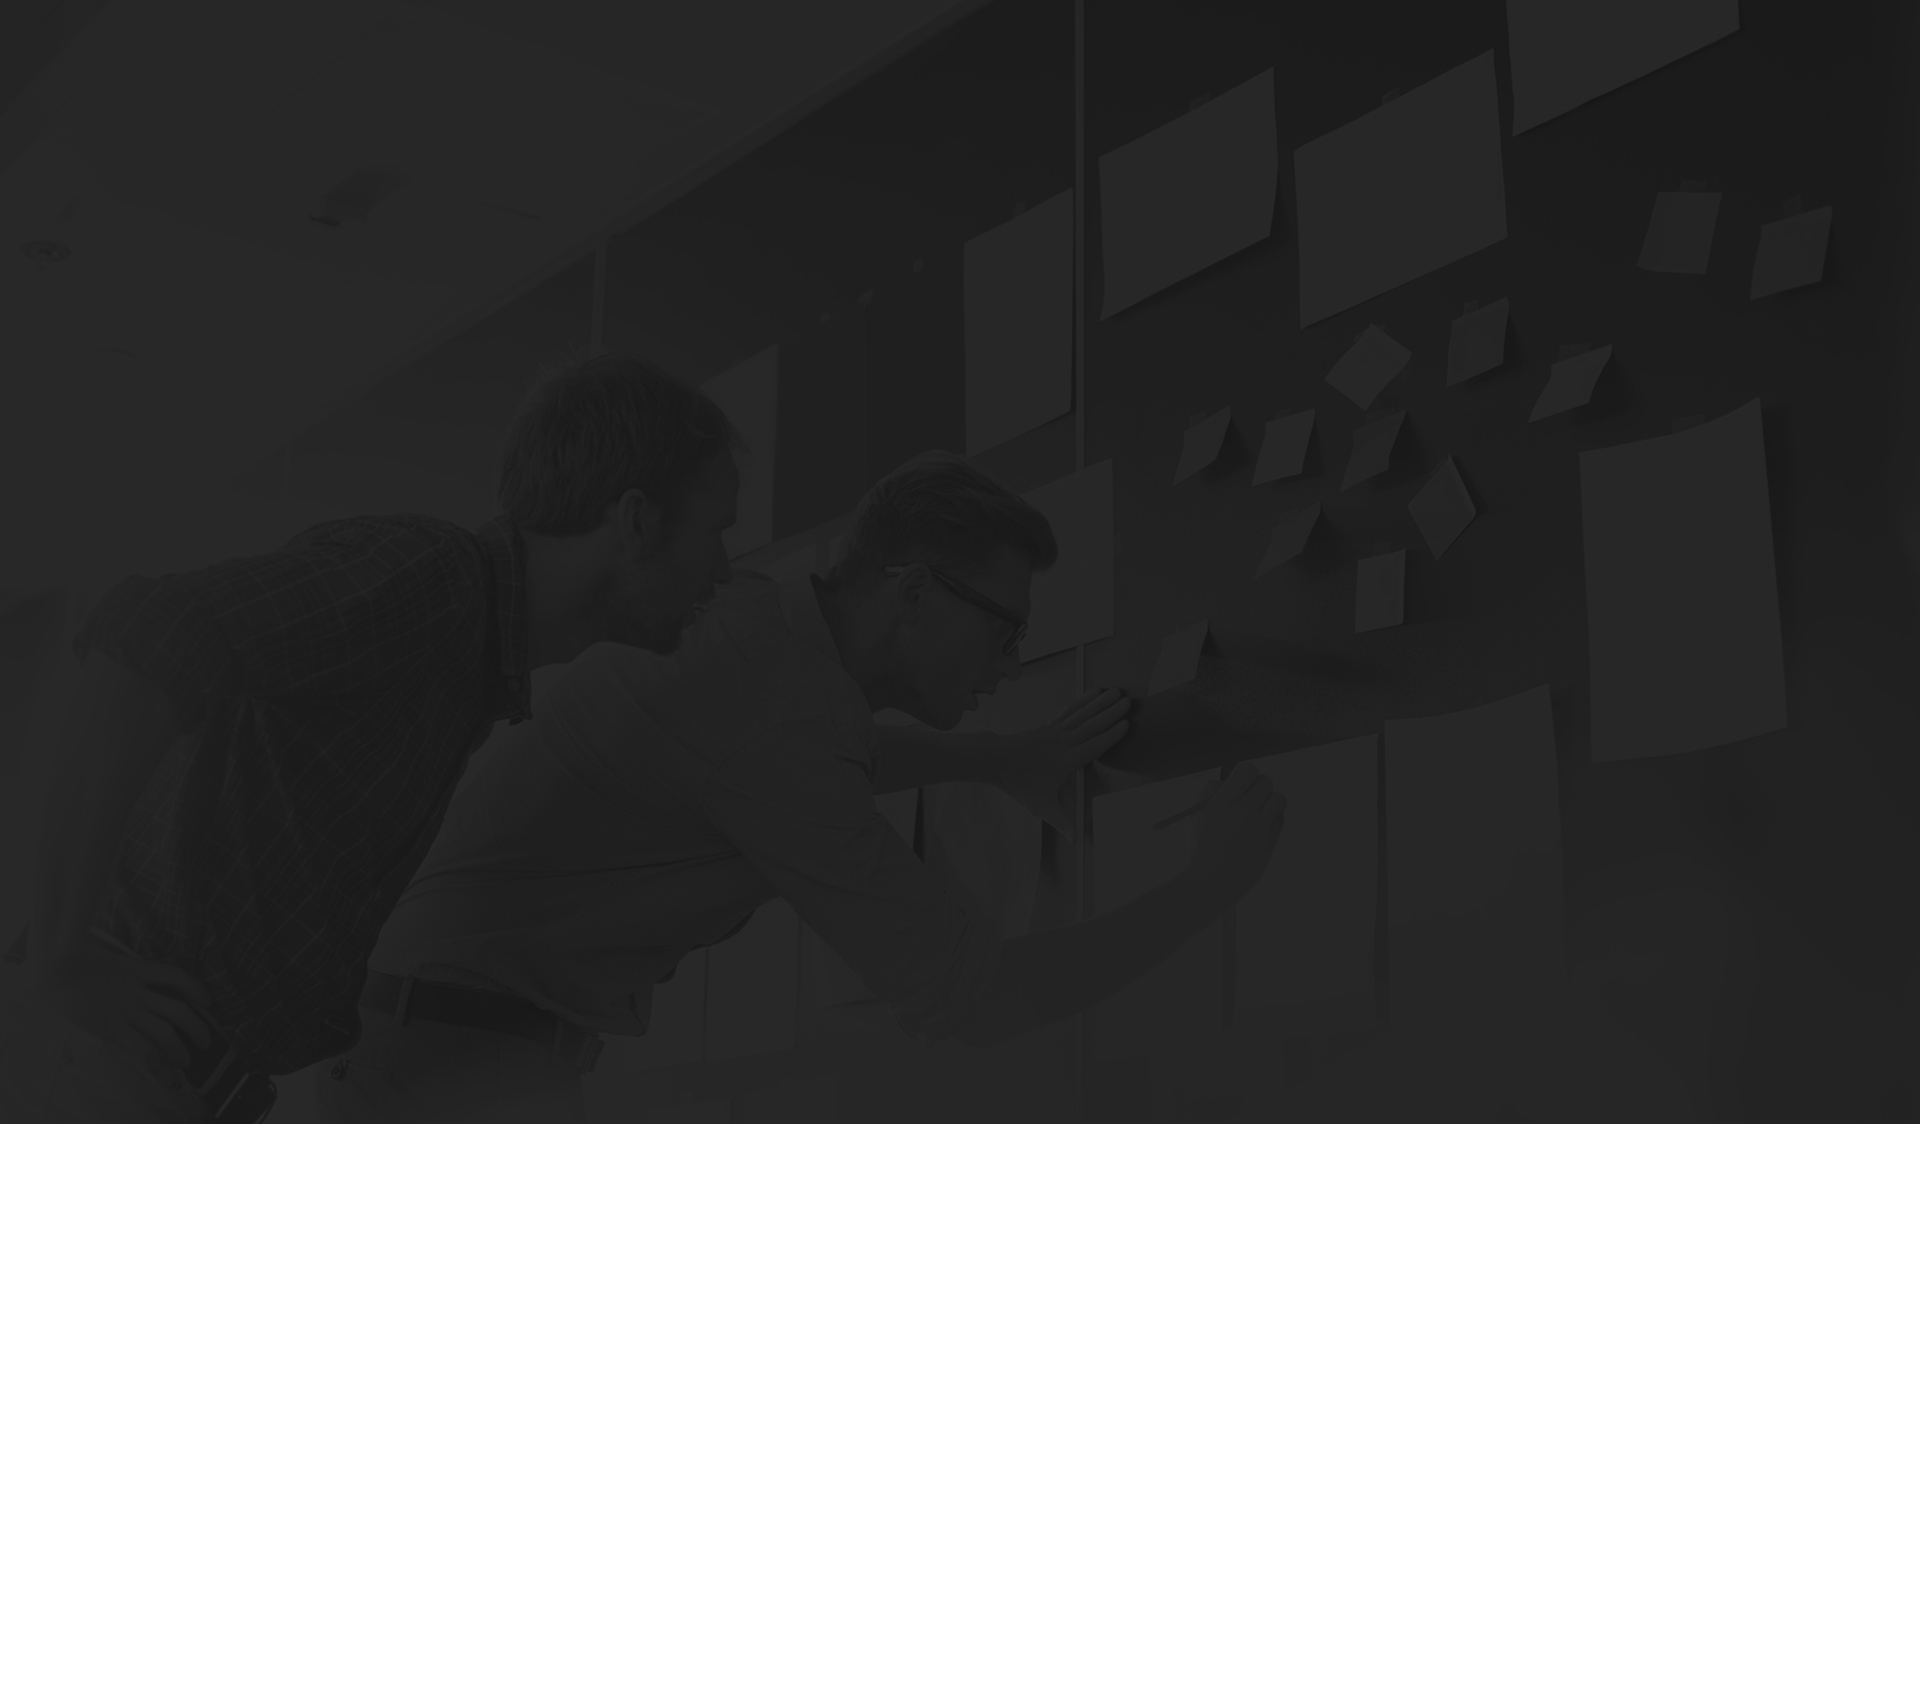
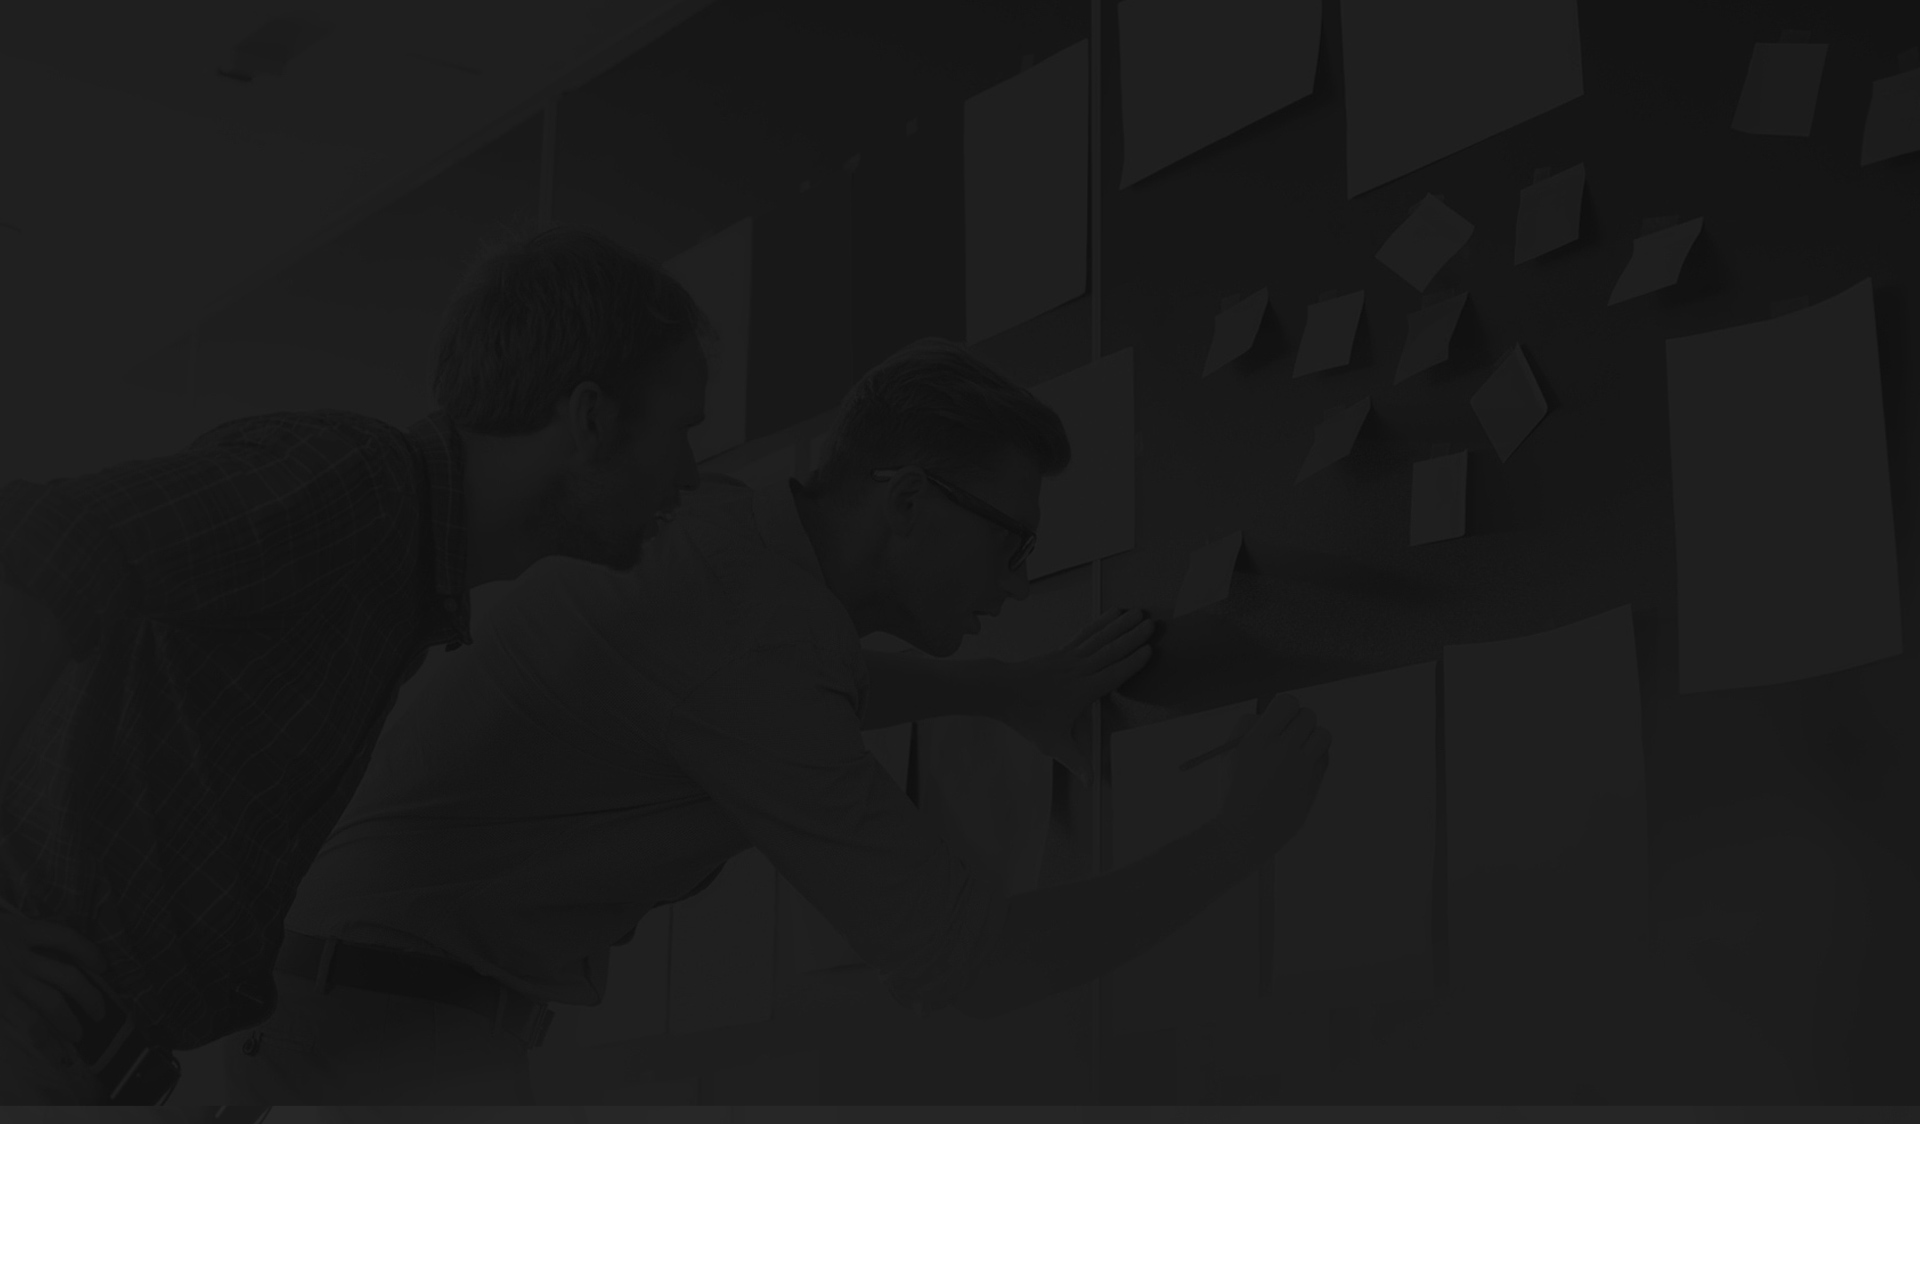
- Descrição Unbox Performance

Changed region(s): [[0.0, 0.6552, 1.0, 0.8736]]

diff --git a/www/app/templates/pages/solutions.html b/www/app/templates/pages/solutions.html
@@ -1,4 +1,4 @@
-<section class="container-fluid text-center">
+<section class="container-fluid text-center bg">
     <div class="container">
         <div class="row">
             <div class="col-md-offset-1 col-md-10 col-sm-12 col-xs-12">
@@ -68,59 +68,133 @@
             </div>
         </div>
     </div>
-    <div class="container text-center">
-        <div class="performance-area">
-            <div class="row">
-                <div class="col-md-12 col-sm-12 col-xs-12">
-                    <br>
-                    <br>
-                    <h2>PACOTE UNBOX PERFORMANCE</h2>
-                    <img src="images/line_title.jpg">
-                    <h4>Alguns treinamentos que compõe o pacote UNBOX Performance.</h4>
-                    <br>
-                    <br>
-                    <br>
-                </div>
+
+    <div class="container" align="center">
+        <div class="row">
+            <div class="col-md-12 col-sm-12 col-xs-12">
+                <br>
+                <br>
+                <h2>PACOTE UNBOX PERFORMANCE</h2>
+                <img src="images/line_title.jpg">
+                <h4>Alguns treinamentos que compõe o pacote UNBOX Performance.</h4>
+                <br>
+                <br>
+            </div>
+        </div>
+        <!-- Accordion -->
+        <div class="roadmap-table panel-group">
+            <div class="row panel panel-default">
                 <div class="col-md-offset-1 col-md-2 col-sm-6 col-xs-12">
-                    <img src="images/performance/perf_00.png">
-                    <br>
-                    <br>
+                    <img src="images/performance/perf_00.png" class="img-padding">
                     <p>Finanças Pessoais</p>
-                    <br>
+                    <a data-toggle="collapse" data-parent="#accordion" href="#collapse0" type="button" class="btn btn-default">Conhecer</a>
                 </div>
                 <div class="col-md-2 col-sm-6 col-xs-12">
-                    <img src="images/performance/perf_01.png">
-                    <br>
-                    <br>
+                    <img src="images/performance/perf_01.png" class="img-padding">
                     <p>Excel para o dia a dia</p>
-                    <br>
+                    <a data-toggle="collapse" data-parent="#accordion" href="#collapse1" type="button" class="btn btn-default">Conhecer</a>
                 </div>
                 <div class="col-md-2 col-sm-6 col-xs-12">
-                    <img src="images/performance/perf_02.png">
-                    <br>
-                    <br>
+                    <img src="images/performance/perf_02.png" class="img-padding">
                     <p>Liderança</p>
-                    <br>
+                    <a data-toggle="collapse" data-parent="#accordion" href="#collapse2" type="button" class="btn btn-default">Conhecer</a>
                 </div>
                 <div class="col-md-2 col-sm-6 col-xs-12">
-                    <img src="images/performance/perf_03.png">
-                    <br>
-                    <br>
+                    <img src="images/performance/perf_03.png" class="img-padding">
                     <p>Apresentações</p>
-                    <br>
+                    <a data-toggle="collapse" data-parent="#accordion" href="#collapse3" type="button" class="btn btn-default">Conhecer</a>
                 </div>
                 <div class="col-md-2 col-sm-6 col-xs-12">
-                    <img src="images/performance/perf_04.png">
-                    <br>
-                    <br>
+                    <img src="images/performance/perf_04.png" class="img-padding">
                     <p>Gestão do tempo</p>
-                    <br>
+                    <a data-toggle="collapse" data-parent="#accordion" href="#collapse4" type="button" class="btn btn-default">Conhecer</a>
                 </div>
-                <div class="col-md-12 col-sm-6 col-xs-12">
-                    <br>
-                    <br>
-                    <p>Para mais informações sobre nossos cursos entre em contato.</p>
-                    <br><br>
+            </div>
+        </div>
+        <div class="panel-group text-center" id="accordion">
+            <div class="panel panel-default">
+                <div id="collapse0" class="panel-collapse collapse">
+                    <img src="images/line_marinho.jpg" class="line-collapse" />
+                    <div class="panel-body row">
+                        <div class="col-md-4 col-sm-6 col-xs-12">
+                            <img src="images/performance/perf_apli_0.png">
+                        </div>
+                        <div class="col-md-8 col-sm-6 col-xs-12 text-left">
+                            <h3>Finanças Pessoais</h3>
+                            <hr>
+                            <h4>Você planeja seus gastos? Sabe quais são suas reais prioridades de consumo? Está atento(a) ao valor de sua receita e sabe controlar os gastos mensais de acordo com o que tem em caixa?</h4>
+                            <hr>
+                            <p>O cuidado com seu planejamento financeiro traz diversos benefícios para sua vida, mas ele é muito mais do que colocar os gastos e as receitas em um papel, é uma forma de cuidar do seu futuro, definir e alcançar grandes metas e realizar seus sonhos. Iremos mostrar para você quais são as boas práticas para facilitar o sucesso financeiro, conheça o <i>Unbox Performance Finanças Pessoais</i> e inicie a sua caminhada.</p>
+                        </div>
+                    </div>
+                </div>
+            </div>
+            <div class="panel panel-default">
+                <div id="collapse1" class="panel-collapse collapse">
+                    <img src="images/line_marinho.jpg" class="line-collapse" />
+                    <div class="panel-body row">
+                        <div class="col-md-4 col-sm-6 col-xs-12">
+                            <img src="images/performance/perf_apli_1.png">
+                        </div>
+                        <div class="col-md-8 col-sm-6 col-xs-12 text-left">
+                            <h3>Excel para o dia a dia</h3>
+                            <hr>
+                            <h4>Nosso trabalho é criar para os usuários finais uma experiência de aprendizagem significativa através de um ambiente organizado, eficiente e estimulante.</h4>
+                            <hr>
+                            <p>A proposta deste material é oferecer um aprendizado objetivo e ágil, focado nas principais funções da ferramenta para ser utilizado no dia-a-dia. Passando por informações básicas, avançadas e principalmente aprender a tirar o melhor proveito da ferramenta de acordo com sua necessidade. Conheça o <i>Unbox Performance Excel para o dia a dia</i> e descubra como ser ágil e efetivo ao utilizar o Excel.</p>
+                        </div>
+                    </div>
+                </div>
+            </div>
+            <div class="panel panel-default">
+                <div id="collapse2" class="panel-collapse collapse">
+                    <img src="images/line_marinho.jpg" class="line-collapse" />
+                    <div class="panel-body row">
+                        <div class="col-md-4 col-sm-6 col-xs-12">
+                            <img src="images/performance/perf_apli_2.png">
+                        </div>
+                        <div class="col-md-8 col-sm-6 col-xs-12 text-left">
+                            <h3>Liderança</h3>
+                            <hr>
+                            <h4>Quando você ouve a palavra liderança, o que vem em sua mente? Uma imagem de alguém que ajuda ativamente a conduzir as pessoas rumo aos objetivos planejados ou alguém que costuma mandar, delegar ordens e funções e que espera do outro lado da mesa bons resultados? Certo?</h4>
+                            <hr>
+                            <p>Um bom líder não é aquele que apenas delega ordens, mas sim aquele que trabalha constantemente para motivar todos os liderados. Neste treinamento mostramos o que é liderança e algumas dicas para ser um excelente líder. O <i>Unbox Performance Liderança</i> mostrará a diferença entre liderança e gestão, os principais objetivos de um líder, como motivar os colaboradores, entre outros tópicos importantes para esse perfil de profissional.</p>
+                        </div>
+                    </div>
+                </div>
+            </div>
+            <div class="panel panel-default">
+                <div id="collapse3" class="panel-collapse collapse">
+                    <img src="images/line_marinho.jpg" class="line-collapse" />
+                    <div class="panel-body row">
+                        <div class="col-md-4 col-sm-6 col-xs-12">
+                            <img src="images/performance/perf_apli_3.png">
+                        </div>
+                        <div class="col-md-8 col-sm-6 col-xs-12 text-left">
+                            <h3>Apresentações</h3>
+                            <hr>
+                            <h4>Você já parou para pensar quais caminhos os grandes palestrantes percorrem para realizar uma boa apresentação? Não? Nós explicamos a você como preparar e realizar uma apresentação memorável! </h4>
+                            <hr>
+                            <p>Este treinamento aborda os principais pontos para se preparar e realizar uma apresentação. Passando pelo planejamento, construção e estruturação do conteúdo da apresentação, quais a ferramentas que encontramos no mercado e até o como se portar durante a apresentação em si. O <i>Unbox Performance Apresentações</i> foi desenvolvido para desmistificar e auxiliar nessa tarefa diária que não precisa ser árdua para nenhum profissional.</p>
+                        </div>
+                    </div>
+                </div>
+            </div>
+            <div class="panel panel-default">
+                <div id="collapse4" class="panel-collapse collapse">
+                    <img src="images/line_marinho.jpg" class="line-collapse" />
+                    <div class="panel-body row">
+                        <div class="col-md-4 col-sm-6 col-xs-12">
+                            <img src="images/performance/perf_apli_4.png">
+                        </div>
+                        <div class="col-md-8 col-sm-6 col-xs-12 text-left">
+                            <h3>Gestão do tempo</h3>
+                            <hr>
+                            <h4>Ao final do seu dia você percebe que não fez tudo o que havia programado e que as suas horas não foram tão produtivas quanto gostaria? Você está sofrendo de um problema que afeta milhares de pessoas em todo o mundo: a falta de tempo.</h4>
+                            <hr>
+                            <p>Por isso, aprender a controlar o seu tempo é essencial para que você possa organizar os seus compromissos e afazeres do dia a dia. No treinamento Unbox Performance Getsão do Tempo, forneceremos diversas dicas para que você possa organizar o seu tempo e tornar o seu dia a dia muito mais produtivo. Quer ver como?</p>
+                        </div>
+                    </div>
                 </div>
             </div>
         </div>

diff --git a/www/app/css/main.css b/www/app/css/main.css
@@ -5911,14 +5911,7 @@ p.copyright {
     margin-bottom: 20px; } }
 
 #solutions {
-  background-image: url("../images/bg_solutions_1920.jpg");
-  -webkit-background-size: cover;
-  -moz-background-size: cover;
-  -o-background-size: cover;
-  background-repeat: no-repeat;
-  background-position: center top;
-  resize: none;
-  height: auto;
+  background: #fff url("../images/bg_solutions_1920.jpg") no-repeat center top;
   border: none; }
 
 #solutions > .container > h2 {
@@ -5949,16 +5942,31 @@ p.copyright {
 .padding-box-folks {
   padding: 0px 35px 35px 35px; }
 
-.performance-area {
-  min-height: 500px; }
+.panel {
+  border: 0px;
+  box-shadow: 0px 0px 0px 0px; }
+
+.panel-body {
+  height: auto;
+  width: 95%;
+  padding: 15px 0px 30px 0px; }
+
+.line-collapse {
+  height: 3px;
+  width: 95%; }
+
+.btn {
+  margin-top: 15px;
+  margin-bottom: 30px; }
 
 @media (max-width: 1199px) {
-  .box-folks {
-    margin-left: -80px; }
-  .box-folks > .row {
-    padding: 60px 15px 35px 15px; }
   #solutions {
-    background-image: url("../images/bg_solutions_1920_02.jpg"); } }
+    background-image: url("../images/bg_solutions_1920.jpg"); }
+  .box-folks {
+    margin-left: -80px;
+    width: 112%; }
+  .box-folks > .row {
+    padding: 60px 15px 35px 15px; } }
 
 @media (max-width: 990px) {
   #solutions {
@@ -5993,7 +6001,12 @@ p.copyright {
   .box-folks .row {
     padding: 50px 15px 35px 15px; }
   .padding-box-folks {
-    padding: 0px 35px 80px 35px; } }
+    padding: 0px 35px 80px 35px; }
+  .panel-body {
+    width: 105%;
+    padding: 15px 0px 30px 15px; }
+  .panel-body img {
+    margin-left: -18px; } }
 
 @media (max-width: 320px) {
   .col-xs-12 {
@@ -6197,7 +6210,7 @@ p.copyright {
   margin-left: -16px;
   position: absolute;
   width: 100%;
-  height: 500px;
+  height: auto;
   z-index: 1;
   background: transparent url(../images/pattern.png) repeat top left; }
 
@@ -6234,6 +6247,10 @@ p.copyright {
   #contact > .overlay-foot > .container > .row > .col-sm-6 > img {
     padding-top: 30px; } }
 
+@media (max-width: 768px) {
+  #contact {
+    height: 540px; } }
+
 @media (max-width: 480px) {
   #contact {
     height: 655px;
@@ -6244,5 +6261,5 @@ p.copyright {
     padding-top: 0px; } }
 
 @media (max-width: 320px) {
-  .overlay-foot {
-    height: 490px; } }
+  #contact {
+    height: 735px; } }

diff --git a/www/sass/pages/_solutions.scss b/www/sass/pages/_solutions.scss
@@ -2,14 +2,7 @@
 -------------------------*/
 
 #solutions {
-    background-image: url("../images/bg_solutions_1920.jpg");
-    -webkit-background-size: cover;
-    -moz-background-size: cover;
-    -o-background-size: cover;
-    background-repeat: no-repeat;
-    background-position: center top;
-    resize: none;
-    height: auto;
+    background: #ffffff url("../images/bg_solutions_1920.jpg") no-repeat center top;
     border: none;
 }
 
@@ -52,21 +45,43 @@
     padding: 0px 35px 35px 35px;
 }
 
-.performance-area {
-    min-height: 500px;
+
+/* Accordion
+-------------------------*/
+
+.panel {
+    border: 0px;
+    box-shadow: 0px 0px 0px 0px;
 }
+
+.panel-body {
+    height: auto;
+    width: 95%;
+    padding: 15px 0px 30px 0px;
+}
+
+.line-collapse {
+    height: 3px;
+    width: 95%;
+}
+
+.btn {
+    margin-top: 15px;
+    margin-bottom: 30px;
+}
+
 @media (max-width: 1199px) {
+    #solutions {
+        background-image: url("../images/bg_solutions_1920.jpg");
+    }
     .box-folks {
         margin-left: -80px;
+        width: 112%;
     }
     .box-folks > .row {
         padding: 60px 15px 35px 15px;
     }
-    #solutions {
-        background-image: url("../images/bg_solutions_1920_02.jpg");
-    }
 }
-
 
 @media (max-width: 990px) {
     #solutions {
@@ -82,6 +97,7 @@
         height: 540px;
     }
 }
+
 @media (max-width: 768px) {
     #solutions {
         background-image: url("../images/bg_solutions_768.jpg");
@@ -113,6 +129,13 @@
     }
     .padding-box-folks {
         padding: 0px 35px 80px 35px;
+    }
+    .panel-body {
+        width: 105%;
+        padding: 15px 0px 30px 15px;
+        img {
+            margin-left: -18px;
+        }
     }
 }
 

diff --git a/www/sass/pages/_contact.scss b/www/sass/pages/_contact.scss
@@ -21,7 +21,7 @@
     margin-left: -16px;
     position: absolute;
     width: 100%;
-    height: 500px;
+    height: auto;
     z-index: 1;
     background: transparent url(../images/pattern.png) repeat top left;
 }
@@ -71,6 +71,12 @@
     }
 }
 
+@media (max-width: 768px) {
+    #contact {
+        height: 540px;
+    }
+}
+
 @media (max-width: 480px) {
     #contact {
         height: 655px;
@@ -85,7 +91,7 @@
 }
 
 @media (max-width: 320px) {
-    .overlay-foot {
-        height: 490px;
+    #contact {
+        height: 735px;
     }
 }
